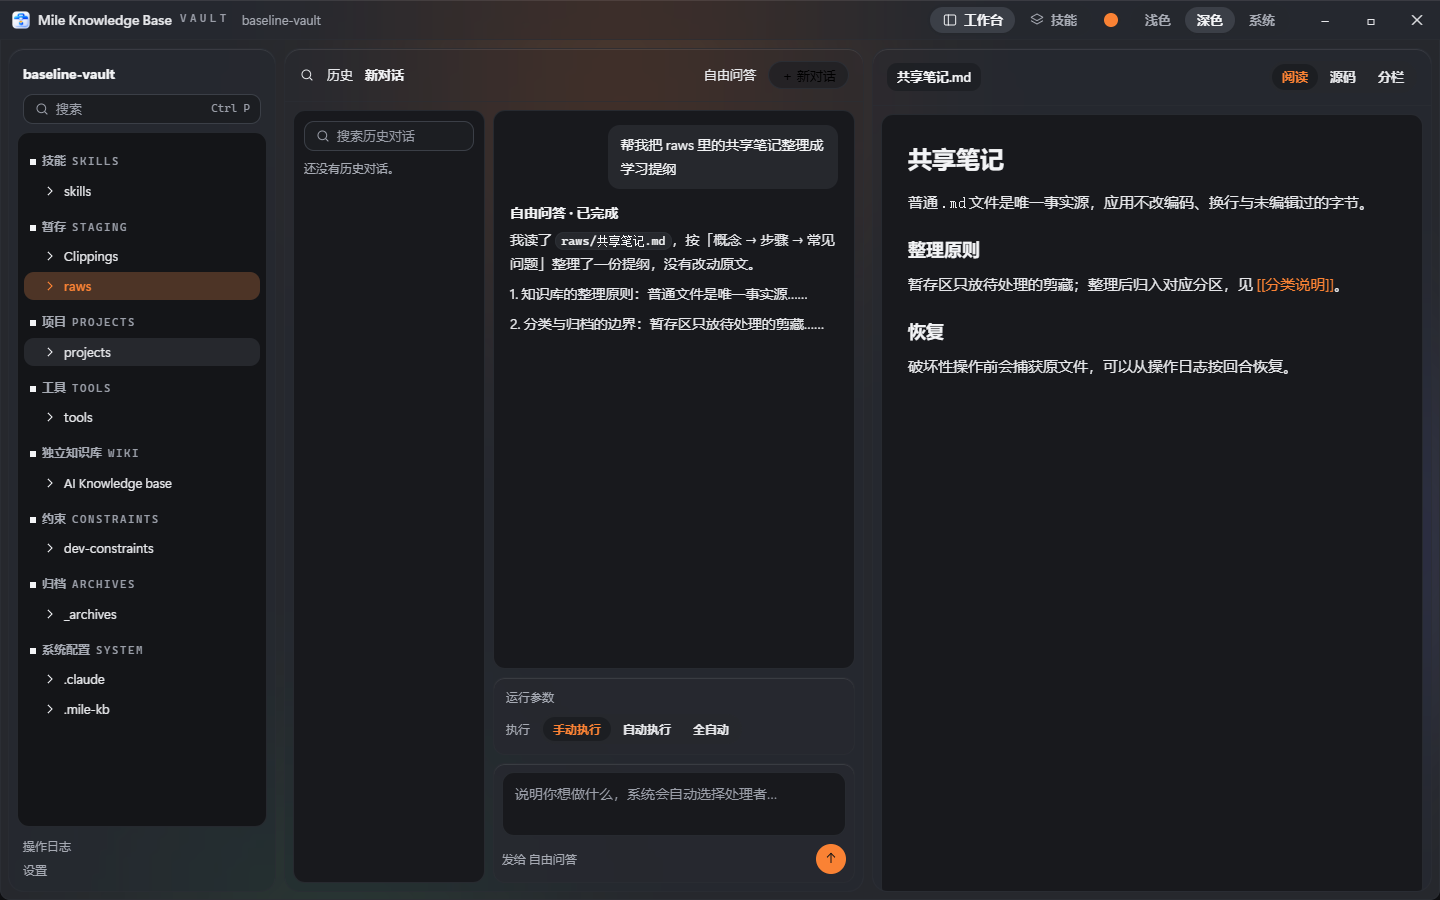
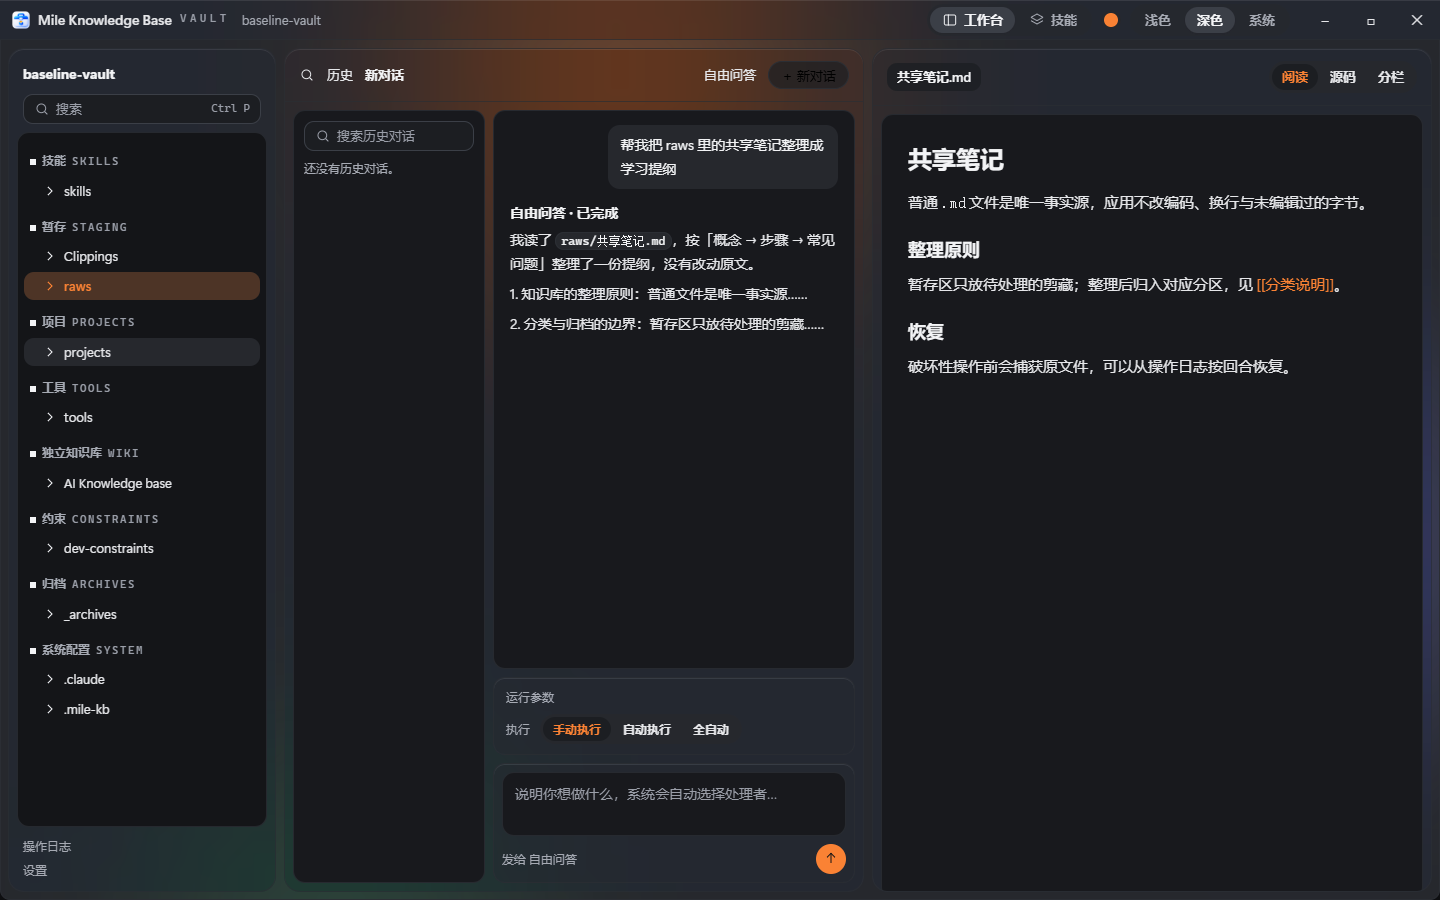
docs(design): adopt the measured high blur level (M10 T00 / Q-M10-2)
The real-window capture showed the approved high level was identical to
std: 0.00% of pixels differed by more than 8/255 because --field-k 1.3 was
clamped by opacity and the blur radius does nothing on the soft field.
The user confirmed candidate E on 2026-11-27. DESIGN 15.2 now carries the
new high row (40 px / 2.0, panels 34/28, cards 28/24, strong 70/68) and
redefines --field-k as layer opacity capped at 1; 15.3 adds the high field
recipe (blobs 60/40/28 light, 36/32/17 dark). UI spec 13.3/13.5 and the
prototype follow, and the two high screenshots are regenerated; the other
17 prototype screenshots are byte-identical.

Changed region(s): [[0.3125, 0.0, 0.5312, 0.1244]]

diff --git a/design/r2/global-material.html b/design/r2/global-material.html
@@ -6,7 +6,7 @@
 <!--
   M10 设计稿（PRD 第 19 节 v2.9，D-021；2026-11-27）。
   把技能页（DESIGN 第 13 节）的毛玻璃、色场与动效推广到全部界面；文字密集区（文件树、对话消息、阅读正文、输入区）
-  在毛玻璃面板里放一层不透明内衬。档位数值是建议值，随 DESIGN 增补审核。
+  在毛玻璃面板里放一层不透明内衬。档位数值按 DESIGN 第 15 节；高强档是 T00 真窗口实测后的候选 E（2026-11-27 用户确认）。
   参数：
     ?state=work | work-doc | menu | settings | welcome
     ?blur=off | low | std | high     （默认 std）
@@ -39,9 +39,16 @@
   [data-blur='low'] { --glass-blur: 10px; --glass-sat: 1.25; --field-k: .6;
     --glass-panel: color-mix(in srgb, var(--raw-card) 76%, transparent); --glass-card: color-mix(in srgb, var(--raw-card) 70%, transparent); --glass-strong: color-mix(in srgb, var(--raw-card) 86%, transparent); }
   [data-theme='dark'][data-blur='low'] { --glass-panel: color-mix(in srgb, var(--raw-raised) 72%, transparent); --glass-card: color-mix(in srgb, var(--raw-raised) 66%, transparent); --glass-strong: color-mix(in srgb, var(--raw-raised) 86%, transparent); }
-  [data-blur='high'] { --glass-blur: 28px; --glass-sat: 1.7; --field-k: 1.3;
-    --glass-panel: color-mix(in srgb, var(--raw-card) 46%, transparent); --glass-card: color-mix(in srgb, var(--raw-card) 40%, transparent); --glass-strong: color-mix(in srgb, var(--raw-card) 70%, transparent); }
-  [data-theme='dark'][data-blur='high'] { --glass-panel: color-mix(in srgb, var(--raw-raised) 42%, transparent); --glass-card: color-mix(in srgb, var(--raw-raised) 36%, transparent); --glass-strong: color-mix(in srgb, var(--raw-raised) 72%, transparent); }
+  [data-blur='high'] { --glass-blur: 40px; --glass-sat: 2; --field-k: 1;
+    --glass-panel: color-mix(in srgb, var(--raw-card) 34%, transparent); --glass-card: color-mix(in srgb, var(--raw-card) 28%, transparent); --glass-strong: color-mix(in srgb, var(--raw-card) 70%, transparent); }
+  [data-theme='dark'][data-blur='high'] { --glass-panel: color-mix(in srgb, var(--raw-raised) 30%, transparent); --glass-card: color-mix(in srgb, var(--raw-raised) 24%, transparent); --glass-strong: color-mix(in srgb, var(--raw-raised) 68%, transparent); }
+  /* high 的色场加强（T00 实测后的候选 E；--field-k 只作层不透明度，上限 1） */
+  [data-blur='high'] .field .a { background: radial-gradient(circle, color-mix(in srgb, var(--raw-accent) 60%, transparent), transparent 68%); }
+  [data-blur='high'] .field .b { background: radial-gradient(circle, color-mix(in srgb, var(--info) 40%, transparent), transparent 68%); }
+  [data-blur='high'] .field .c { background: radial-gradient(circle, color-mix(in srgb, var(--live) 28%, transparent), transparent 68%); }
+  [data-theme='dark'][data-blur='high'] .field .a { background: radial-gradient(circle, color-mix(in srgb, var(--raw-accent) 36%, transparent), transparent 68%); }
+  [data-theme='dark'][data-blur='high'] .field .b { background: radial-gradient(circle, color-mix(in srgb, var(--info) 32%, transparent), transparent 68%); }
+  [data-theme='dark'][data-blur='high'] .field .c { background: radial-gradient(circle, color-mix(in srgb, var(--live) 17%, transparent), transparent 68%); }
 
   /* ---------- 档位：动画 ---------- */
   :root { --ease-out-expo: cubic-bezier(0.16, 1, 0.3, 1); --ease-spring-soft: cubic-bezier(0.34, 1.36, 0.64, 1);

diff --git a/docs/PLAN-M10.md b/docs/PLAN-M10.md
@@ -49,7 +49,7 @@
 
 | 编号 | 目标 | 修改范围 | 依赖 | 完成条件 | 状态 |
 | --- | --- | --- | --- | --- | --- |
-| T00 | 基线与真窗口 spike | `spikes/m10-effects/`（新，不进产品代码） | B-M10-00 | 1.7.0 最小化 5 分钟 CPU 基线；真窗口里三档模糊的观感与玻璃底对比度取样；`kind=typical` 在 1.7.0 上的实测基线；结论写进 RESULT.md 并回报（Q-M10-2、Q-M10-3） | 已验证（2026-11-27；Q-M10-2 数值与 Q-M10-3 门槛待用户确认） |
+| T00 | 基线与真窗口 spike | `spikes/m10-effects/`（新，不进产品代码） | B-M10-00 | 1.7.0 最小化 5 分钟 CPU 基线；真窗口里三档模糊的观感与玻璃底对比度取样；`kind=typical` 在 1.7.0 上的实测基线；结论写进 RESULT.md 并回报（Q-M10-2、Q-M10-3） | 已验证（2026-11-27；Q-M10-2 采用候选 E、Q-M10-3 按建议接入，见账本） |
 | T01 | 设置字段与首帧 | `internal/contract`、`internal/settings`、`main.go`、`public/theme-init.js`、`appStore`、`src/mygo.ts`（生成） | T00 | Go 测试先红后绿（默认、非法回落、`patch` 拒绝、顶层保留）；`theme-init` 三种输入的单测；`check:bindings` 通过 | 待做 |
 | T02 | 全局令牌与检查改写 | `src/styles/effects.css`（新）、`main.css` 引入、`skills-page.css` 去掉自有令牌、`scripts/check-effect-tokens.mjs`（替换旧检查，B-M10-02） | T01 | 检查正反对照；技能页在 `std` 档下与 1.7.0 截图逐张对照无差异（色场位置除外）；ac-m8 / ac-m9 通过 | 待做 |
 | T03 | 色场、降级与系统减少动画 | `BackgroundField`（新）、`useEffectsGuard`（新，替代 `useSkillsGlass`）、`appStore` 状态 | T02 | 判定函数单测（比值、绝对上限、`off` 不判定）；不可见时暂停；技能页改用全局结果 | 待做 |
@@ -108,6 +108,7 @@
 | 2026-11-27 | 审批 | 用户按建议批准 PLAN-M10 v0.1 与配套资料（DESIGN 第 15 节与 §2 注记、技术设计第 21 节、API 第 17 节、数据库设计 4.1 两行），含 B-M10-00–05、Q-M10-1–3 均按建议 (a)；放行 B-M10-00 与 T00；各文档状态行已回写 | 随 B-M10-00 第 2 次提交 | 状态行 grep 核对 | B-M10-00 → T00 |
 | 2026-11-27 | B-M10-00 | 审批结论回写：PLAN-M10 状态行与账本、DESIGN §2 注记与 §15、技术设计 §21、API §17、数据库设计 4.1 两行、decisions D-021、路线 3.9.3、CLAUDE.md 第 3 节；分两次本地提交：`7a5973d`（M9 收尾文档修正：PLAN-M9 头部、推送事实与授权记录）、`cfeee6f`（M10 规划资料 + 原型 + 19 张截图 + 截图脚本，32 个文件）。3 个非本任务文件（`docs/agent-skills/`、`docs/icon/`、`docs/内置Agent技能.md`）未提交，仍待用户决定 | `7a5973d`、`cfeee6f` | 提交前逐个看 git diff，无凭据与个人信息；python 回读 12 个文档 UTF-8 无 BOM、无 U+FFFD；`git diff --check` 无输出；`shots-m10` 19 张；提交后工作区只剩 3 个用户文件 | T00（已放行；需先关闭运行中的应用实例） |
 | 2026-11-27 | T00 | 新增 `spikes/m10-effects/`（不进产品代码）。**CPU 基线**（生产 1.7.0、临时 APPDATA / LOCALAPPDATA / USERPROFILE / HOME、临时 typical 库、300 s 最小化）两轮 **0.594 / 0.625 s**（单核 0.20%，7 个进程 = 应用 + 6 个 msedgewebview2），真实 `%APPDATA%\Mile Knowledge Base` 文件指纹前后完全一致；**typical 基线**（e2e 构建）：`perf.sh` 冷启动 870 ms、`perf-m1.sh` 检索 p95 1.2 ms、`perf-ai.sh` 历史首帧 66.1 ms / 流式慢帧 0（551 帧）/ 按键 p90 8.1 ms，`perf:gate --kind typical` **exit 0**；**真窗口模糊 spike**：已审核原型 + `tokens.css` 在 mygo + WebView2 打开（1440×900，dpr 1.751，motion=off），2 状态 × 2 主题 × 4 档共 16 组截图，文字透明化后按包围盒取中位背景算 WCAG，最低 **4.53**（深色菜单强调色，与 M9 一致）。**Q-M10-2 结论**：当前「标准」与「强」在真窗口不可区分（std→high MAD 0.16–1.70、差异 >8 的像素 **0.00%**；根因：原型把 `--field-k` 直接用作 `.field{opacity}`，1.3 被钳到 1，属空操作；模糊半径在柔和色场上无感）。实测候选 B–E，推荐 **E**（色块浅 60/40/28、深 36/32/17；面板浅 34/28、强 70，深 30/24、强 68；40px、饱和 2.0）：work-doc 浅 MAD **1.82 / 6.15%** 像素（≈ off→std 的可见度），菜单 5.95 / 25.14%，对比度最低仍 4.53。DESIGN 15.2/15.3 按 Q-M10-2「先报告再改」**待用户确认**。**Q-M10-3 建议**：`idleCpuRatio = idleCpuSeconds / 0.625 ≤ 1.2`（300 s 内 ≤ 0.75 s），待确认后接入 T09。另：清理了 PowerShell 5.1 在仓库根生成的 `Microsoft/` 缓存目录（20K，非项目内容）。 | 本地（随 T00 提交） | CPU 两轮 JSON 与真实 APPDATA 指纹；gate exit 0；16 张当前档位 + 4 张候选 E 截图、`result.json` / `tune-result.json`、三份 perf 原始输出（`.txt`，`*.log` 被忽略）；19 个文本文件 UTF-8 无 BOM、无 U+FFFD；e2e 构建覆盖 `build/windows-amd64`（正式包 T12 重打） | T01 未放行；Q-M10-2 数值与 Q-M10-3 门槛待用户确认 |
+| 2026-11-27 | 裁决（T00 跟进） | 用户 2026-11-27 答复：**Q-M10-2 采用候选 E**（DESIGN 15.2/15.3、UI 稿 13.3/13.5、原型高强档与 2 张 high 截图同步）；**Q-M10-3 按建议接入**（基线 0.625 s、≤1.2 倍，T09 写入门禁）；**T00 亲测跳过**，放行 T01 | 随本提交 | `capture-proto-m10.py` 重拍 19 张，仅 work-doc-blur-high 浅 / 深变化（其余逐字节一致）；DESIGN / UI 稿 UTF-8 无 BOM | T01（已放行） |
 
 ## 9. 自查
 

diff --git a/docs/UI设计稿.md b/docs/UI设计稿.md
@@ -665,7 +665,7 @@
 | 关 | — | 不透明面板色 | 不透明卡片色 | 不画 |
 | 弱 | 10px | 卡片色 76% / 抬升色 72% | 70% / 66% | 0.6 |
 | 标准 | 18px | 58% / 54% | 50% / 46%（= 技能页） | 1 |
-| 强 | 28px | 46% / 42% | 40% / 36% | 1.3 |
+| 强 | 40px、饱和 2.0 | 34% / 30% | 28% / 24% | 1（色块 60% / 40% / 28%，深 36% / 32% / 17%） |
 
 | 动画 | 入场 | 悬停 / 滑动 | 过冲 | 入场模糊 | 色场漂动 |
 | --- | --- | --- | --- | --- | --- |
@@ -685,3 +685,4 @@
 - 截图核对（2026-11-27）：19 张逐张看过。核对中修了原型两处：设置页「动画」一行原本显示的是截图用的「关」，改为显示用户档位（截图默认标准，`?anim=` 可指定）；去掉了模糊行下方一排没有需求依据、视觉上也看不出差别的预览块。
 - 弱 / 标准 / 强在浅色缩略图里的差别不大，主要体现在面板外壳的透出程度与色场浓淡；需要在真窗口（WebView2）里确认三档是否拉得开，必要时在 DESIGN 里加大档位间距。
 - 真实设置页的主题缩略图卡片、关闭行为、面板宽度等保留现状，原型只画了与本节相关的部分。
+- T00 真窗口实测（2026-11-27）：原「强」在 WebView2 里与「标准」的像素差异为 0.00%（`--field-k` 被 opacity 钳到 1，模糊半径在柔和色场上无感）。用户当天确认改用候选 E（色块 60/40/28、面板 34/28/70、40px/饱和 2.0；深色 36/32/17、30/24/68）：work-doc 浅色 MAD 1.82 / 6.15% 像素，对比度最低仍 4.53。本节 13.3 表、原型与 DESIGN 15.2/15.3 已同步，实测记录见 `spikes/m10-effects/RESULT.md`，原型截图 `shots-m10/` 已按新值重拍。
